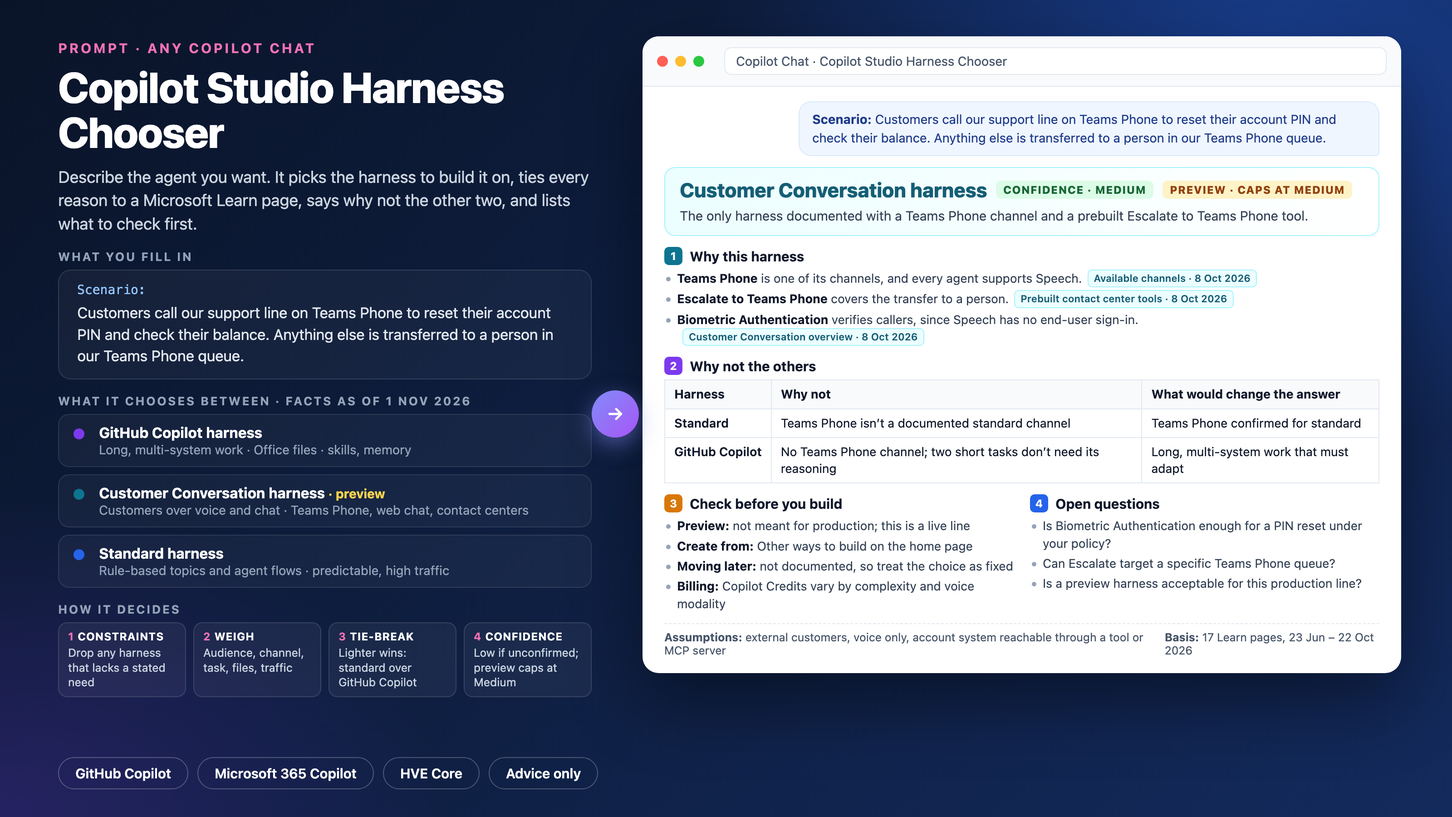
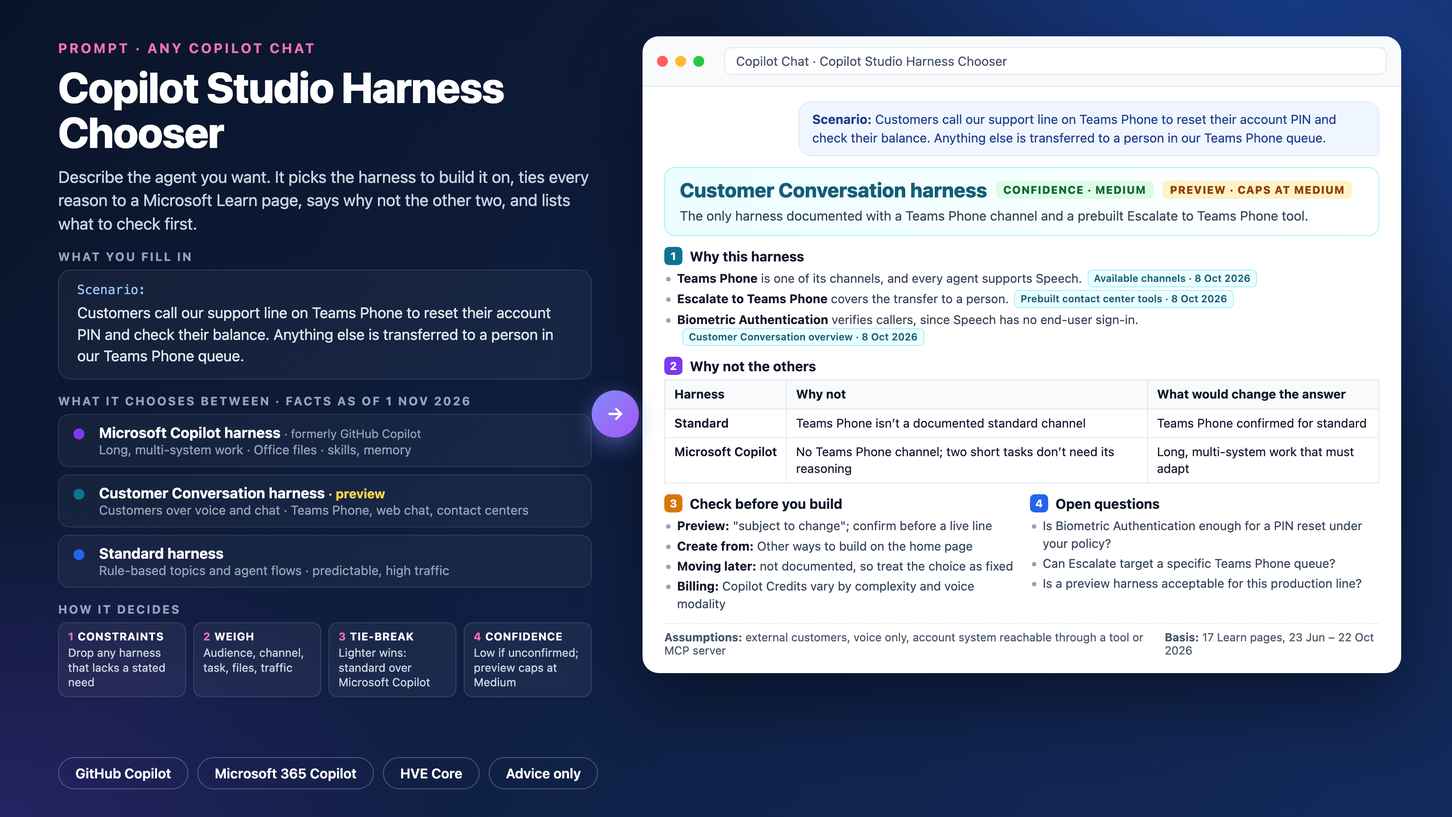
copilot-studio-harness-chooser 1.1: Microsoft Copilot harness rename (#29)
The GitHub Copilot harness is now the Microsoft Copilot harness (Microsoft Copilot Studio blog, 28 Oct 2026). The prompt uses the new name and notes the old one, memory is marked preview, and the README, metadata, catalog row and image are updated.

diff --git a/prompts/copilot-studio-harness-chooser/README.md b/prompts/copilot-studio-harness-chooser/README.md
@@ -2,7 +2,7 @@
 
 ## Summary
 
-Every new agent in Copilot Studio runs on a harness, and you choose it when you create the agent: the **GitHub Copilot harness** for reasoning-heavy, multistep work, the **Customer Conversation harness** (preview) for customers over voice and chat, or the **standard harness** for rule-based agents and agent flows. The choice is hard to undo. An agent can't be transferred between the standard and GitHub Copilot harnesses; the only documented path is a preview upgrade that copies a standard agent to a new GitHub Copilot agent and leaves its knowledge sources, Power Fx and child agents behind. The harness also decides the features, the channels and when billing starts: the GitHub Copilot and Customer Conversation harnesses meter Copilot Credits from the moment you start building, the standard harness after publish. Microsoft updated its harness overview on 19 October 2026, and it now compares these three side by side.
+Every new agent in Copilot Studio runs on a harness, and you choose it when you create the agent: the **Microsoft Copilot harness** (until 28 October 2026 the GitHub Copilot harness) for reasoning-heavy, multistep work, the **Customer Conversation harness** (preview) for customers over voice and chat, or the **standard harness** for rule-based agents and agent flows. The choice is hard to undo. An agent can't be transferred between the standard and Microsoft Copilot harnesses; the only documented path is a preview upgrade that copies a standard agent to a new Microsoft Copilot harness agent and leaves its knowledge sources, Power Fx and child agents behind. The harness also decides the features, the channels and when billing starts: the Microsoft Copilot and Customer Conversation harnesses meter Copilot Credits from the moment you start building, the standard harness after publish. Microsoft updated its harness overview on 19 October 2026, and it now compares these three side by side. Nine days later it renamed the GitHub Copilot harness the Microsoft Copilot harness; Learn and the product still show the old name in places, so the prompt knows both.
 
 Paste this prompt into a Copilot chat, describe the agent you want, and it returns:
 
@@ -20,8 +20,8 @@ The prompt follows the prompt standards of [HVE Core](https://github.com/microso
 
 | File | What it's for | Where it goes |
 |---|---|---|
-| [`PROMPT.md`](./PROMPT.md) | The prompt: the facts about each harness, the steps to choose, the output shape, examples and error handling. 7,997 of the 8,000 characters allowed, so trim before adding to it. | Pasted into chat, as is, with the scenario filled in |
-| [`assets/preview.png`](./assets/preview.png) | The gallery image: a Teams Phone scenario and the answer the published prompt gave for it in testing | For people only |
+| [`PROMPT.md`](./PROMPT.md) | The prompt: the facts about each harness, the steps to choose, the output shape, examples and error handling. 7,988 of the 8,000 characters allowed, so trim before adding to it. | Pasted into chat, as is, with the scenario filled in |
+| [`assets/preview.png`](./assets/preview.png) | The gallery image: a Teams Phone scenario and the answer the prompt gave for it in testing, with the harness name and the preview wording brought up to date with version 1.1 | For people only |
 
 ## Run it
 
@@ -40,7 +40,7 @@ To run it again with `/copilot-studio-harness-chooser`, save it as `.github/prom
 
 ```markdown
 ---
-description: Recommend the Copilot Studio harness for a scenario: GitHub Copilot, Customer Conversation or standard, with reasons.
+description: Recommend the Copilot Studio harness for a scenario: Microsoft Copilot, Customer Conversation or standard, with reasons.
 agent: ask
 ---
 ```
@@ -54,7 +54,7 @@ With the HVE Core extension or Copilot CLI plugin installed, save the prompt as 
 
    ```markdown
    ---
-   description: 'Recommend the GitHub Copilot, Customer Conversation or standard Copilot Studio harness for a scenario, with reasons'
+   description: 'Recommend the Microsoft Copilot, Customer Conversation or standard Copilot Studio harness for a scenario, with reasons'
    argument-hint: "scenario=..."
    version: '1.0.0'
    author: 'ari20089/agents-in-practice'
@@ -75,11 +75,12 @@ The prompt states each fact below so the agent doesn't need current documentatio
 
 | What the prompt says | Basis |
 |---|---|
-| What each harness is for | GitHub Copilot: "agents and workflows built for reasoning-heavy, multi-step work"; Customer Conversation: "agents that answer questions and resolve issues for customers over voice and chat"; standard: "rule-based agents and agent flows" (Harnesses in Copilot Studio) |
-| GitHub Copilot harness capabilities | It "can take a goal, break it into steps, call the right tools across connectors, knowledge, MCP, and connected agents, and adjust when a step fails", "natively creates and edits Word, Excel, PowerPoint, and PDF files, supports skills and memory, and runs each task in a secure sandbox" (Harnesses in Copilot Studio). "Reasoning models and some emerging agentic capabilities are available only through the GitHub Copilot harness", on a page that "Compare[s] the standard and GitHub Copilot harnesses" only, so the prompt says Customer Conversation isn't compared (Compare Copilot Studio agent harnesses). "User memory is disabled in group chats and Microsoft Teams channels" (Memory, GitHub Copilot) |
-| GitHub Copilot channels | "Currently available? Yes" for Microsoft Copilot, Microsoft Teams, Demo website and Web app; "Preview" for MCP client and A2A client, "available only in early release cycle environments"; "No" for SharePoint, Facebook, WhatsApp, Slack, Telegram, Native app (Direct Line), Genesys, LivePerson, Salesforce, ServiceNow, Twilio, Line, GroupMe, Direct Line Speech and Email (Available channels, GitHub Copilot) |
+| Microsoft Copilot harness, formerly GitHub Copilot harness | Microsoft is "updating the name to the **Microsoft Copilot harness**" "to reflect its broader role across Microsoft"; existing agents "continue working as they do today, with no changes to capabilities or billing"; "over the coming weeks, you'll begin seeing the updated terminology throughout the product" (The GitHub Copilot harness is now the Microsoft Copilot harness, 28 Oct 2026). The Learn pages quoted below were last updated before the rename and keep the old name |
+| What each harness is for | GitHub Copilot (now Microsoft Copilot): "agents and workflows built for reasoning-heavy, multi-step work"; Customer Conversation: "agents that answer questions and resolve issues for customers over voice and chat"; standard: "rule-based agents and agent flows" (Harnesses in Copilot Studio) |
+| Microsoft Copilot harness capabilities | It "can take a goal, break it into steps, call the right tools across connectors, knowledge, MCP, and connected agents, and adjust when a step fails", "natively creates and edits Word, Excel, PowerPoint, and PDF files, supports skills and memory, and runs each task in a secure sandbox" (Harnesses in Copilot Studio). "Reasoning models and some emerging agentic capabilities are available only through the GitHub Copilot harness", on a page that "Compare[s] the standard and GitHub Copilot harnesses" only, so the prompt says Customer Conversation isn't compared (Compare Copilot Studio agent harnesses). "User memory is disabled in group chats and Microsoft Teams channels" (Memory, GitHub Copilot) |
+| Microsoft Copilot harness channels | "Currently available? Yes" for Microsoft Copilot, Microsoft Teams, Demo website and Web app; "Preview" for MCP client and A2A client, "available only in early release cycle environments"; "No" for SharePoint, Facebook, WhatsApp, Slack, Telegram, Native app (Direct Line), Genesys, LivePerson, Salesforce, ServiceNow, Twilio, Line, GroupMe, Direct Line Speech and Email (Available channels, GitHub Copilot) |
 | It isn't the GitHub Copilot service | "customer data isn't sent to or processed by the GitHub Copilot service when agents run in Copilot Studio. Existing Microsoft Copilot Studio privacy, security, compliance, and data residency commitments continue to apply" (Harnesses in Copilot Studio; GitHub Copilot harness overview) |
-| GitHub Copilot harness gaps, each supported on standard | The feature comparison table marks each of these Supported on the standard harness and not supported on the GitHub Copilot harness: Prompt ("Replaced by Skills"), Azure AI Search knowledge, the SharePoint, WhatsApp and Dynamics 365 Contact Center channels, manual or custom authentication, and custom entities. Computer use is "Planned". Topics are "Replaced by **Hooks**", which "run workflows automatically at specific points in an agent's lifecycle", and the upgrade page rebuilds custom topics as skills or workflows. The same table marks as Supported on both: the Teams and Microsoft 365 Copilot and website channels; public website, file upload, SharePoint, Graph connector and Dataverse table knowledge; Microsoft (Entra ID) and no authentication; connectors, MCP, workflows, connected agents and DLP. Autonomous triggering uses "triggers (preview) or an Agent Node in Workflows" (GitHub Copilot harness overview). "customers should validate required features and channels as the experience matures" (Compare Copilot Studio agent harnesses) |
+| Microsoft Copilot harness gaps, each supported on standard | The feature comparison table marks each of these Supported on the standard harness and not supported on the GitHub Copilot harness: Prompt ("Replaced by Skills"), Azure AI Search knowledge, the SharePoint, WhatsApp and Dynamics 365 Contact Center channels, manual or custom authentication, and custom entities. Computer use is "Planned". Topics are "Replaced by **Hooks**", which "run workflows automatically at specific points in an agent's lifecycle", and the upgrade page rebuilds custom topics as skills or workflows. The same table marks as Supported on both: the Teams and Microsoft 365 Copilot and website channels; public website, file upload, SharePoint, Graph connector and Dataverse table knowledge; Microsoft (Entra ID) and no authentication; connectors, MCP, workflows, connected agents and DLP. Autonomous triggering uses "triggers (preview) or an Agent Node in Workflows" (GitHub Copilot harness overview). "customers should validate required features and channels as the experience matures" (Compare Copilot Studio agent harnesses) |
 | Customer Conversation harness | Preview: each page is "prerelease documentation and is subject to change". "An agent built on this harness is called a **Customer Assist Agent**"; "multi-agent architecture with specialized sub-agents, each with its own escalation path"; "Speech channels don't support end-user sign-in, so knowledge sources that require end-user credentials only work for Chat conversations" (Customer Conversation overview). Channels: standalone "Demo website", "Web chat" and "Teams Phone"; contact center "Dynamics 365 Contact Center", "Genesys" and "Bring your own" (Available channels). Escalate offers "Escalate to Teams Phone", "Escalate to Email" and "Escalate to Customer Engagement", which "sends the entire conversation to the engagement hub, which finds the best available live agent"; "The **Biometric Authentication** capability lets your agent authenticate callers over voice calls", enabled "from the **Voice capabilities** section" (Prebuilt contact center tools). Knowledge: public websites, files and Dynamics 365 need "No authentication"; SharePoint, Dataverse, Salesforce and ServiceNow "Requires authentication", and "Knowledge sources that use the end user's credentials work only in chat conversations, because voice channels don't support end-user sign-in" (Available knowledge sources, Customer Conversation). Skills: "**Generative** skills" and "**Topic** skills, which are deterministic, authored flows of steps and conditions (matching the existing Copilot Studio Topics concept)" (Skills overview). Contact centers named on the creation page: "Dynamics 365 Contact Center, Genesys, Cisco, or Avaya"; the agent can be created "from either Copilot Studio or the Microsoft Contact Center Intelligence portal", from the **Customer Conversation** tile under **Other ways to build** or from the **Agents** page. Every agent "supports both Speech and Chat conversations by default"; "Deploying an agent to a contact center can only be done from the portal, by an Omnichannel Admin" (Create a new agent, Customer Conversation) |
 | Standard harness | "A dependable option for rule-based agents and structured, repeatable workflows or conversations" (Harnesses in Copilot Studio). "Well suited to high-traffic, user-facing scenarios where responsive interaction is important"; "The presence of connectors, MCP servers, or some dynamic planning doesn't by itself require the GitHub Copilot harness" (Compare Copilot Studio agent harnesses). In the "Works with files" row, standard and Customer Conversation are both "Not a focus" (Harnesses in Copilot Studio). Skills and Memory are "Not supported" on standard, "GH agents only" (GitHub Copilot harness overview). Standard channels: "Teams and Microsoft Copilot", SharePoint, WhatsApp, Demo Website, Custom Website, Mobile App, Facebook and "Azure Bot Service channels, including" Cortana, Slack, Telegram, Twilio, Line, Kik, GroupMe, Direct Line Speech and Email; no Teams Phone is listed, and the GitHub Copilot harness's own channels page lists 15 channels as not available, so the prompt ranks a documented gap above an unstated one (Key concepts: Publish and deploy your agent) |
 | Chosen at creation; no transfer; the upgrade copy | "You choose which harness to use when you create a new agent. Agents created with the GitHub Copilot harness can't be transferred to the standard harness, and vice versa" (GitHub Copilot harness overview). Standard agents are created from "Other ways to build" on the home page, and The Copilot chat and Customer Conversation harnesses "use separate creation paths" (Access standard harness agents). The preview upgrade "creates a copy of the agent onto the GitHub Copilot harness" and "carries over instructions, tools, and suggested prompts"; "custom topics can be rebuilt as skills of workflows" [sic]; "Knowledge sources", "Power Fx expressions" and "Child agents" aren't migrated; "The upgrade consumes credits"; "Preview features aren't meant for production use", a statement the prompt applies to the upgrade only (Upgrade agents to the GitHub Copilot harness) |
@@ -87,21 +88,22 @@ The prompt states each fact below so the agent doesn't need current documentatio
 | Billing | "Copilot Credits are the common currency across Copilot Studio capabilities" (Standard harness licensing). "Unlike the standard harness, which starts billing after publish, the GitHub Copilot harness charges credits from the moment you start building", for "LLM tokens, tools (including knowledge and MCPs), and the harness itself"; for "the Self-Service/Customer Assist Agent in Microsoft Contact Center Intelligence", "credit consumption varies by conversation complexity and modality" (Usage-based billing). Every Customer Conversation page adds "Using, building, testing, and evaluating agents might consume Copilot Credits" (Customer Conversation overview). "A Microsoft 365 Copilot license lets you use Copilot Studio to build agents for the GitHub Copilot harness"; "*classic answers*, *generative answers*, or *Microsoft Graph tenant grounding* have zero-rated usage" for Microsoft 365 Copilot licensed users (Standard harness licensing) |
 | A Copilot Chat agent may fit better | A Microsoft training module (20 Aug 2026) describes a "Copilot Chat harness" that "connects enterprise knowledge to Microsoft Copilot Chat" for internal users, and the page on accessing standard harness agents still mentions "The Copilot chat and Customer Conversation harnesses". The 19 October overview and the agents overview (9 Sep 2026) list only the three harnesses this prompt compares, so the prompt flags this case instead of choosing |
 
-How it decides, in order: note each harness documented as not supporting a stated channel, auth method or feature, and prefer one on which every stated need is confirmed (a channel, feature or workaround the facts don't state for a harness counts as unconfirmed, not as supported or unsupported); if no harness clears every need, recommend the best fit at Low confidence and make its gap the first check; weigh the harnesses (customers on Teams Phone, web chat or a contact center with escalation to people → Customer Conversation; long, multi-system, multi-output or file-heavy work that must adapt → GitHub Copilot; short, bounded, predictable or high-volume work, or a working standard agent → standard); break a tie toward standard, because Microsoft says the heavier harness costs latency and credits on simple work; and split the scenario across two harnesses only when it is clearly two jobs. Confidence is Low when a stated need is unconfirmed or unsupported on the recommended harness; Medium when the harness is in preview or an open question about a stated need could change the answer; High otherwise. An employee-only Copilot Chat scenario gets the note in the Recommendation line and the usual comparison.
+How it decides, in order: note each harness documented as not supporting a stated channel, auth method or feature, and prefer one on which every stated need is confirmed (a channel, feature or workaround the facts don't state for a harness counts as unconfirmed, not as supported or unsupported); if no harness clears every need, recommend the best fit at Low confidence and make its gap the first check; weigh the harnesses (customers on Teams Phone, web chat or a contact center with escalation to people → Customer Conversation; long, multi-system, multi-output or file-heavy work that must adapt → Microsoft Copilot harness; short, bounded, predictable or high-volume work, or a working standard agent → standard); break a tie toward standard, because Microsoft says the heavier harness costs latency and credits on simple work; and split the scenario across two harnesses only when it is clearly two jobs. Confidence is Low when a stated need is unconfirmed or unsupported on the recommended harness; Medium when the harness is in preview or an open question about a stated need could change the answer; High otherwise. An employee-only Copilot Chat scenario gets the note in the Recommendation line and the usual comparison.
 
 ## Prerequisites
 
 - Any Copilot chat: Microsoft 365 Copilot Chat, GitHub Copilot Chat in VS Code, the GitHub Copilot CLI or another chat assistant. No tools, files or connections are needed.
 - For the HVE Core prompt file: VS Code with GitHub Copilot Chat and the HVE Core extension, or the GitHub Copilot CLI with the HVE Core plugin.
-- To act on the recommendation: access to Copilot Studio, and for the GitHub Copilot or Customer Conversation harness, Copilot Credits allocated to the environment by an administrator.
+- To act on the recommendation: access to Copilot Studio, and for the Microsoft Copilot or Customer Conversation harness, Copilot Credits allocated to the environment by an administrator.
 
 ## Limitations
 
 - Written against 17 Microsoft Learn pages dated 23 June to 22 October 2026 and one Learn training module, all read on 1 November 2026. The harnesses are new, and the Customer Conversation harness and the upgrade are in preview; check the Sources before relying on a recommendation, and update the facts in the prompt when a page changes.
 - The pages don't agree on how many harnesses there are. The harness overview (19 October 2026) and the agents overview (9 September 2026) describe three. The page on accessing standard harness agents (21 September 2026) mentions "all four harnesses", and a training module (20 August 2026) describes a Copilot Chat harness for extending Microsoft 365 Copilot Chat in place of Customer Conversation. The prompt compares the three the overview describes and flags Copilot Chat scenarios rather than judging them.
-- The GitHub Copilot harness isn't labelled preview on its overview page, but several of its features are: natural-language creation and triggers are preview, and memory is "a production-ready preview feature" under supplemental terms. The prompt doesn't call the harness itself preview, and it applies Microsoft's "not meant for production use" wording only to the upgrade, where it appears.
-- The feature comparison on the GitHub Copilot harness overview compares it with the standard harness only. There is no feature table for the Customer Conversation harness, so the prompt states what its overview, channels, knowledge, skills, tools and creation pages say. Its channels page lists no Teams chat, Microsoft 365 Copilot or WhatsApp channel, and the prompt treats those as unconfirmed rather than unsupported. The GitHub Copilot harness has its own channels page, which lists 15 channels as not available; the prompt states that list, so a voice, email, Slack or contact center scenario is ruled out there rather than left open.
-- Whether a Customer Conversation agent can be moved to or from another harness isn't documented as of 1 November 2026, and no upgrade from the GitHub Copilot harness back to standard is documented.
+- The Microsoft Copilot harness isn't labelled preview on its overview page, but several of its features are: natural-language creation and triggers are preview, and memory is "a production-ready preview feature" under supplemental terms. The prompt marks memory as preview but doesn't call the harness itself preview, and it applies Microsoft's "not meant for production use" wording only to the upgrade, where it appears.
+- The feature comparison on the harness's overview page (still titled "GitHub Copilot Harness overview") compares it with the standard harness only. There is no feature table for the Customer Conversation harness, so the prompt states what its overview, channels, knowledge, skills, tools and creation pages say. Its channels page lists no Teams chat, Microsoft 365 Copilot or WhatsApp channel, and the prompt treats those as unconfirmed rather than unsupported. The GitHub Copilot harness has its own channels page, which lists 15 channels as not available; the prompt states that list, so a voice, email, Slack or contact center scenario is ruled out there rather than left open.
+- Whether a Customer Conversation agent can be moved to or from another harness isn't documented as of 1 November 2026, and no upgrade from the Microsoft Copilot harness back to standard is documented.
+- Microsoft renamed the GitHub Copilot harness to the Microsoft Copilot harness on 28 October 2026. Every Learn page cited here still uses the old name as of 1 November 2026, and the product is changing "over the coming weeks". The prompt introduces the new name, notes the old one, and uses the short form "MCH" internally to stay within 8,000 characters while telling the agent to write the full name in its answers. The tests below ran before the rename and used the old name.
 - Copilot Studio is documented as available in the US Government Community Cloud (GCC) on the standard licensing page, but availability by harness, region or government cloud isn't documented as of 1 November 2026. If that matters, the prompt makes it an open question.
 - The upgrade page says custom topics "can be rebuilt as skills of workflows", which reads as a typo for "skills or workflows"; the prompt uses "skills or workflows".
 - The prompt gives no prices or credit amounts. Billing pages show estimated credit ranges only as images, and consumption depends on design and volume; use Microsoft's Copilot Credits estimator for numbers.
@@ -111,7 +113,7 @@ How it decides, in order: note each harness documented as not supporting a state
   - "An agent that helps with expense reports" gets one message asking for audience, channel and scope.
   - Customers on WhatsApp and a website, handing off to Dynamics 365 Contact Center, get standard at Medium: WhatsApp isn't on Customer Conversation's channel list.
   - A working standard help desk for 40,000 employees that leadership wants moved gets "stay on standard" at High. The answer notes that the upgrade copy would leave its SharePoint knowledge behind.
-  - A monthly board pack builder needing Azure AI Search gets GitHub Copilot at Low, with that gap as the first check.
+  - A monthly board pack builder needing Azure AI Search gets the GitHub Copilot harness (now the Microsoft Copilot harness) at Low, with that gap as the first check.
   - Employees asking Microsoft 365 Copilot Chat about HR policies in SharePoint get standard at High, with the note that a Copilot Chat agent may fit better.
   - Customers on Teams Phone, handing off to a live agent in Genesys, get Customer Conversation, at Low in one run and Medium in another, because that handoff is only partly documented.
   - Customers on Teams Phone, transferred to a person in a Teams Phone queue, get Customer Conversation at Medium, held below High by preview status. This is the answer in the gallery image.
@@ -143,6 +145,7 @@ Microsoft Learn, with each page's `ms.date` when it was read on 1 November 2026:
 
 Other sources, read on 1 November 2026:
 
+- [The GitHub Copilot harness is now the Microsoft Copilot harness](https://www.microsoft.com/en-us/copilot/blog/copilot-studio/the-github-copilot-harness-in-copilot-studio-is-now-the-microsoft-copilot-harness/), Microsoft Copilot Studio blog, 28 Oct 2026
 - [microsoft/hve-core](https://github.com/microsoft/hve-core), last changed 31 Oct 2026: the README, and [Contributing Prompts to HVE Core](https://github.com/microsoft/hve-core/blob/main/docs/contributing/prompts.md) and [AI Artifacts Common Standards](https://github.com/microsoft/hve-core/blob/main/docs/contributing/ai-artifacts-common.md), both dated 7 Oct 2026
 - [Use prompt files in VS Code](https://code.visualstudio.com/docs/copilot/customization/prompt-files), updated 28 Oct 2026
 
@@ -157,6 +160,7 @@ Other sources, read on 1 November 2026:
 | Version | Date | Comments |
 | --- | --- | --- |
 | 1.0 | November 2026 | Initial release |
+| 1.1 | November 2026 | The GitHub Copilot harness is now the Microsoft Copilot harness; the prompt uses the new name and notes the old one. Memory is marked preview |
 
 ## Help
 

diff --git a/prompts/copilot-studio-harness-chooser/PROMPT.md b/prompts/copilot-studio-harness-chooser/PROMPT.md
@@ -2,7 +2,7 @@
 
 ## Overview
 
-Recommend the Copilot Studio harness for my scenario: GitHub Copilot, Customer Conversation or standard. Tie each reason to the facts below, say why not the other two, and list what to check before building. Advise only.
+Recommend the Copilot Studio harness for my scenario: Microsoft Copilot, Customer Conversation or standard. Tie each reason to the facts below, say why not the other two, and list what to check before building. Advise only.
 
 ## Inputs
 
@@ -14,19 +14,19 @@ If that line still shows angle brackets, ask me for it and stop.
 
 You MUST use only these facts for Microsoft behaviour. If the scenario needs something not covered, say "not documented as of 1 November 2026" and make it an open question. You MUST NOT quote prices or credit amounts.
 
-- **GitHub Copilot harness:** for reasoning-heavy agents and workflows completing complex, multistep business processes. Plans from a goal, calls connectors, knowledge, MCP and connected agents, and adjusts when a step fails. Creates and edits Word, Excel, PowerPoint and PDF files; supports skills and memory (memory is off in group chats and Teams channels); runs each task in a sandbox. Reasoning models and newer agentic capabilities: here, not on standard (Customer Conversation isn't compared). Not the GitHub Copilot service: customer data isn't sent there; Copilot Studio compliance and data residency apply.
-- **GitHub Copilot channels:** Microsoft Copilot, Teams, demo website and web app are available; MCP client and A2A client are preview. Not available: SharePoint, WhatsApp, Facebook, Slack, Telegram, Direct Line (native app and speech), Twilio, email, Genesys, LivePerson, Salesforce and ServiceNow. Not supported but supported on standard: the Dynamics 365 Contact Center channel, the Prompt tool (replaced by skills), Azure AI Search knowledge, manual or custom authentication, custom entities. Topics are replaced by hooks (workflows at lifecycle points), skills or workflows; autonomous runs use triggers (preview) or an Agent node in a workflow. Both: SharePoint, file, website, Dataverse and Graph connector knowledge; Microsoft Entra ID or no authentication; connectors, MCP, workflows, connected agents, DLP.
+- **Microsoft Copilot harness** (MCH below; formerly GitHub Copilot harness, which Learn may still show; use the full new name in answers): for reasoning-heavy agents and workflows completing complex, multistep business processes. Plans from a goal, calls connectors, knowledge, MCP and connected agents, and adjusts when a step fails. Creates and edits Word, Excel, PowerPoint and PDF files; supports skills and memory (preview; off in group chats and Teams channels); runs each task in a sandbox. Reasoning models and newer agentic capabilities: here, not on standard (Customer Conversation isn't compared). Not the GitHub Copilot service: customer data isn't sent there; Copilot Studio compliance and data residency apply.
+- **MCH channels:** Microsoft Copilot, Teams, demo website and web app are available; MCP client and A2A client are preview. Not available: SharePoint, WhatsApp, Facebook, Slack, Telegram, Direct Line (native app and speech), Twilio, email, Genesys, LivePerson, Salesforce and ServiceNow. Not supported but supported on standard: the Dynamics 365 Contact Center channel, the Prompt tool (replaced by skills), Azure AI Search knowledge, manual or custom authentication, custom entities. Topics are replaced by hooks (workflows at lifecycle points), skills or workflows; autonomous runs use triggers (preview) or an Agent node in a workflow. Both: SharePoint, file, website, Dataverse and Graph connector knowledge; Microsoft Entra ID or no authentication; connectors, MCP, workflows, connected agents, DLP.
 - **Customer Conversation harness (preview, "subject to change"):** a Customer Assist Agent resolves customers' questions and issues over voice and chat, with predictable responses for defined topics. A primary agent routes to sub-agents, each with its own escalation path to a person. Supports tools, MCP, connected agents, memory, generative skills and deterministic Topic skills (like Copilot Studio Topics). Channels: demo website, web chat, Teams Phone, and Dynamics 365 Contact Center, Genesys, Cisco, Avaya or bring-your-own contact center; every agent supports Speech and Chat. Knowledge: public websites, files and Dynamics 365 need no sign-in; SharePoint, Dataverse, Salesforce and ServiceNow use end-user sign-in, so they work in Chat only (Speech has none). Escalate tool: to Teams Phone, email, or Customer Engagement (hands the whole conversation to a live agent). Biometric Authentication verifies callers (voice). Only an Omnichannel Admin deploys to a contact center, from the Microsoft Contact Center Intelligence portal.
-- **Standard harness:** for rule-based agents, agent flows and structured, repeatable conversations where predictable behaviour matters; the maker defines topics, prompts and paths. No skills or memory. Channels: Teams and Microsoft Copilot, SharePoint, WhatsApp, demo and custom website, mobile app, Facebook, and Azure Bot Service channels (Slack, Telegram, Twilio, Line, Direct Line Speech, email); no Teams Phone listed. Suits short, bounded tasks, high-traffic scenarios needing fast responses, and agents on established channels or features. Connectors, MCP or some dynamic planning don't by themselves require the GitHub Copilot harness. Working with files is "not a focus" here or on Customer Conversation.
-- **Choosing and moving:** the harness is picked when the agent is created. Standard and Customer Conversation agents start from Other ways to build on the home page (the latter also from the Contact Center Intelligence portal). An agent can't be transferred between standard and GitHub Copilot. A preview upgrade, not meant for production use, copies a standard agent to a new GitHub Copilot agent (instructions, tools, suggested prompts; topics rebuilt as skills or workflows; not knowledge sources, Power Fx or child agents) and consumes credits. Moving a Customer Conversation agent isn't documented. Migrate only for a scenario-level benefit; on a simple scenario GitHub Copilot adds reasoning, latency and credits without a better result. Documented split: GitHub Copilot curates data on a schedule for standard agents.
-- **Billing:** all three bill in Copilot Credits. GitHub Copilot and Customer Conversation are usage-based and charge from building (preview, testing, evaluations); standard bills after publish under its existing licensing. Customer Conversation credits vary by complexity and modality (digital, GenAI voice, premium voice). On standard, classic answers, generative answers and Microsoft Graph tenant grounding are zero-rated for Microsoft 365 Copilot licensed users in Copilot Chat, Teams and SharePoint.
+- **Standard harness:** for rule-based agents, agent flows and structured, repeatable conversations where predictable behaviour matters; the maker defines topics, prompts and paths. No skills or memory. Channels: Teams and Microsoft Copilot, SharePoint, WhatsApp, custom website, mobile app, Facebook, and Azure Bot Service channels (Slack, Telegram, Twilio, Direct Line Speech, email); no Teams Phone listed. Suits short, bounded tasks, high-traffic scenarios needing fast responses, and agents on established channels or features. Connectors, MCP or some dynamic planning don't by themselves require the MCH. Working with files is "not a focus" here or on Customer Conversation.
+- **Choosing and moving:** the harness is picked when the agent is created. Standard and Customer Conversation agents start from Other ways to build on the home page (the latter also from the Contact Center Intelligence portal). An agent can't be transferred between standard and MCH. A preview upgrade, not meant for production use, copies a standard agent to a new MCH agent (instructions, tools, suggested prompts; topics rebuilt as skills or workflows; not knowledge sources, Power Fx or child agents) and consumes credits. Moving a Customer Conversation agent isn't documented. Migrate only for a scenario-level benefit; on a simple scenario MCH adds reasoning, latency and credits without a better result. Documented split: an MCH agent curates data on a schedule for standard agents.
+- **Billing:** all three bill in Copilot Credits. MCH and Customer Conversation are usage-based and charge from building (preview, testing, evaluations); standard bills after publish under its existing licensing. Customer Conversation credits vary by complexity and modality (digital or voice). On standard, classic answers, generative answers and Microsoft Graph tenant grounding are zero-rated for Microsoft 365 Copilot licensed users in Copilot Chat, Teams and SharePoint.
 
 ## Workflow Steps
 
 1. **Read the scenario:** audience, channels, task length, systems, files, sign-in, traffic, what exists.
 2. **Apply hard constraints.** Note each harness documented as not supporting a stated need, naming the fact; a documented gap outranks an unstated one. Prefer a harness with every stated need confirmed. If none has, recommend the best fit from step 3 at Low and make its gap the first check.
-3. **Weigh the rest.** Customers on Teams Phone, web chat or a contact center, with escalation to people, favours Customer Conversation. Long-running, multi-system, multi-output or file-heavy work that must adapt favours GitHub Copilot. Short, bounded, predictable or high-volume work, or a standard agent working well, favours standard.
-4. **Break ties toward the lighter harness.** If two fit equally, you SHOULD recommend standard over GitHub Copilot.
+3. **Weigh the rest.** Customers on Teams Phone, web chat or a contact center, with escalation to people, favours Customer Conversation. Long-running, multi-system, multi-output or file-heavy work that must adapt favours MCH. Short, bounded, predictable or high-volume work, or a standard agent working well, favours standard.
+4. **Break ties toward the lighter harness.** If two fit equally, you SHOULD recommend standard over MCH.
 5. **Consider a split.** If the scenario has two clearly different jobs, you MAY recommend one harness for each.
 
 ## Output
@@ -57,7 +57,7 @@ Return exactly these sections:
 
 <!-- <example-scenarios> -->
 - Customers call a Teams Phone number to check an order and reach a person if stuck: Customer Conversation.
-- Employees hand over invoices in Teams; it matches purchase orders, updates an Excel file and routes exceptions: GitHub Copilot.
+- Employees hand over invoices in Teams; it matches purchase orders, updates an Excel file and routes exceptions: Microsoft Copilot harness.
 <!-- </example-scenarios> -->
 
 ## Error Handling

diff --git a/README.md b/README.md
@@ -76,7 +76,7 @@ For an Adaptive Card, paste its `card.json` into your host and replace each `${.
 
 | Prompt | Platforms | Description |
 | --- | --- | --- |
-| [copilot-studio-harness-chooser](./prompts/copilot-studio-harness-chooser/) | GitHub Copilot, Microsoft 365 Copilot, Any coding agent | Describe the agent you want to build and it recommends the Copilot Studio harness to build it on (GitHub Copilot, Customer Conversation or standard) with the reasons, why not the other two, what to check before you build and the open questions. Written to HVE Core's prompt standards. |
+| [copilot-studio-harness-chooser](./prompts/copilot-studio-harness-chooser/) | GitHub Copilot, Microsoft 365 Copilot, Any coding agent | Describe the agent you want to build and it recommends the Copilot Studio harness to build it on (Microsoft Copilot, formerly GitHub Copilot, Customer Conversation or standard) with the reasons, why not the other two, what to check before you build and the open questions. Written to HVE Core's prompt standards. |
 | [power-platform-adr](./prompts/power-platform-adr/) | GitHub Copilot, Microsoft 365 Copilot, Any coding agent | Describe a delivery decision and it writes an Architecture Decision Record choosing between Agent Builder, Copilot Studio, a Power Apps code app or a combination: decision drivers, architecturally significant requirements, every option scored against documented Microsoft facts, the chosen option with its consequences and a confirmation step, in MADR v4 form. HVE Core's ADR Creator, scoped to Power Platform. |
 
 ### Developer productivity
